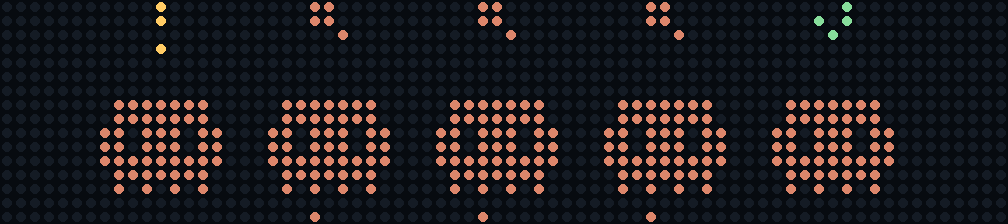
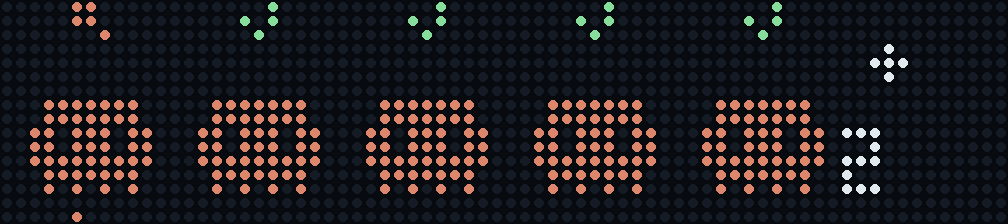
Replace simulated README images with real captures
The duo and token views are framebuffer snapshots of the bar during a
real working session; the single-family views render those same
sessions one family at a time. The idle example is dropped: no real
capture of an all-idle Claude family exists yet. CONTRIBUTING now
sends fictional previews outside docs/ so they cannot overwrite them.

Claude-Session: https://claude.ai/code/session_01283X6km29zjUkzis9fDjkR

diff --git a/README.md b/README.md
@@ -6,18 +6,16 @@ A small crew of **terracotta Clawd characters** and **blue Codex characters** on
 
 **Both Claude and Codex sessions are being tracked → Duo.** Large characters appear alongside the session count for each agent family, including open, idle Claude sessions.
 
-![Duo: simulated example](docs/duo.png)
+![Duo: 7 Claude sessions, one working and six finished; 3 Codex conversations, one working, one finished and one failed](docs/duo.png)
 
 **Only one agent family is present → Small team.** Each small character represents a real session. A Claude session remains visible when its response finishes, then turns gray once acknowledged, as long as its process remains open. It also keeps its place while another session is working.
 
-![Claude team: simulated example](docs/claude-team.png)
-![Codex team: simulated example](docs/codex-team.png)
+![Claude team: one working session, four finished, and +2 more beyond the six slots](docs/claude-team.png)
+![Codex team: one working conversation, one finished, one failed](docs/codex-team.png)
 
 **All open Claude sessions are idle → `zzz`.** The character stays visible while its process is open, even if Codex is still working.
 
-![Idle Claude alongside working Codex: simulated example](docs/idle-duo.png)
-
-These images are simulated examples generated by `agent-deck demo docs`. The program never uses them as tracking data.
+These captures come from a real working session on 2026-10-11, taken with `agent-deck snapshot --leds`. The single-family views render those same sessions, one family at a time. `agent-deck demo <directory>` generates fictional examples of each layout instead.
 
 | Indicator | State |
 | --- | --- |
@@ -116,6 +114,9 @@ uv run agent-deck snapshot front.png --leds
 `snapshot` reads the framebuffer from the actual bar; it is not a physical photograph of the LEDs.
 
 ## Tokens
+
+![Today's tokens: Claude 1.0G, Codex 396M](docs/tokens-today.png)
+![This month's tokens: Claude 9.1G, Codex 1.7G](docs/tokens-month.png)
 
 Two token views show totals **by agent family**: today (labelled `TODAY` at the bottom), and the calendar month to date, from the 1st through today (labelled `MONTH`). Both are refreshed every two minutes from a single ccusage report and displayed in K, M or G; the month count starts again on the 1st. `agent-deck refresh`, or **Refresh tokens now** in the menu bar icon, recounts them within a couple of seconds. Only one ccusage run happens at a time: a request made while one is running joins it. It uses ccusage's `totalTokens`, including cache tokens as reported by that tool. It does not show an instantaneous rate, context size, or remaining subscription quota. No cost is extrapolated for a model without known pricing. A family with usage earlier in the month shows 0 for a day without any. An error, stale data, or a change of day produces a `?`.
 

diff --git a/CONTRIBUTING.md b/CONTRIBUTING.md
@@ -22,9 +22,11 @@ files out of commits, issue attachments and test fixtures.
 
 For changes to an adapter, include a regression covering its observable result
 and failure behavior. Record the tested source version and distinguish internal
-file formats from supported public APIs. For render changes, regenerate the
-fictional previews with `uv run agent-deck demo docs` and inspect them at the
-native 72 × 16 resolution as well as enlarged.
+file formats from supported public APIs. For render changes, generate the
+fictional previews with `uv run agent-deck demo /tmp/agent-deck-demo` and inspect
+them at the native 72 × 16 resolution as well as enlarged. The README images in
+`docs/` are real captures (`agent-deck snapshot --leds`); do not overwrite them
+with fictional previews.
 
 CI tests Linux and macOS on Python 3.11 and 3.14. Device integration and real
 LaunchAgent lifecycle checks require an explicitly chosen test device/account;
